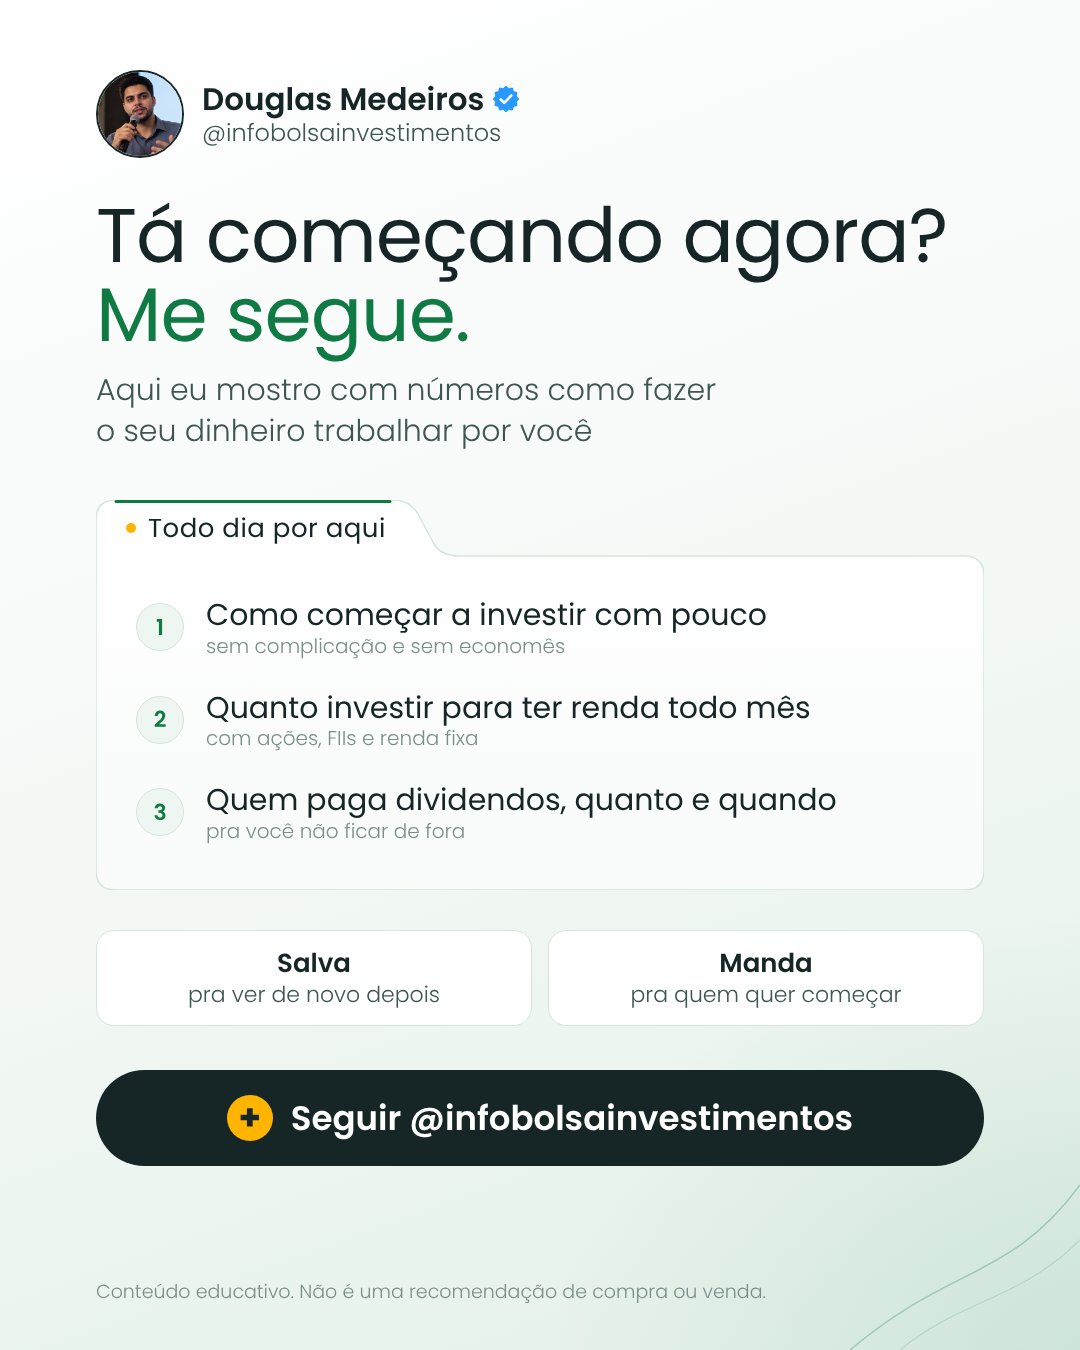
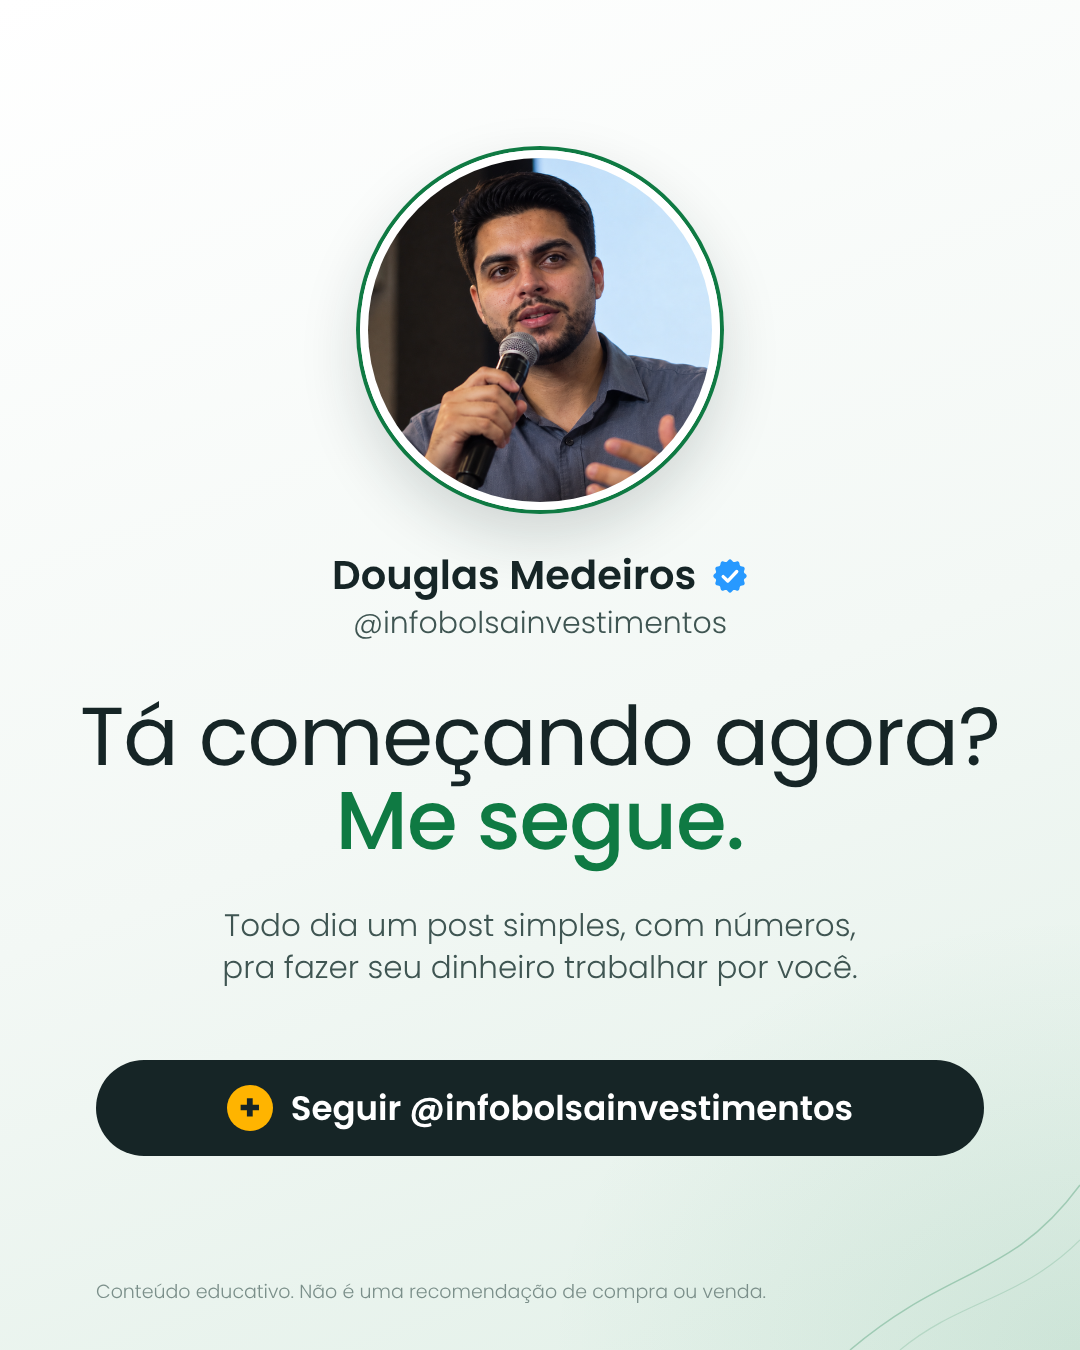
Slide de seguir mais enxuto
Claude-Session: https://claude.ai/code/session_01V4Ut9U2W4uPbxLAyJQKmJH

Changed region(s): [[0.0917, 0.0311, 0.9167, 0.6533], [0.0917, 0.7156, 0.9167, 0.8711], [0.1833, 0.6844, 0.825, 0.7467]]

diff --git a/kit/gen_inst.py b/kit/gen_inst.py
@@ -299,26 +299,34 @@ def build_prefere(c, tema):
 
 SEGUE_PADRAO = {
     "titulo": "Tá começando agora?<br><span>Me segue.</span>",
-    "sub": "Aqui eu mostro com números como fazer<br>o seu dinheiro trabalhar por você",
-    "aba": "Todo dia por aqui",
-    "itens": [["Como começar a investir com pouco", "sem complicação e sem economês"],
-              ["Quanto investir para ter renda todo mês", "com ações, FIIs e renda fixa"],
-              ["Quem paga dividendos, quanto e quando", "pra você não ficar de fora"]],
+    "sub": "Todo dia um post simples, com números,<br>pra fazer seu dinheiro trabalhar por você.",
     "rodape": ["Conteúdo educativo. Não é uma recomendação de compra ou venda."],
 }
 
 
 def build_segue(c, tema):
-    """Último slide do carrossel, genérico (não anuncia tema). cfg opcional; sem cfg usa SEGUE_PADRAO."""
+    """Último slide do carrossel, enxuto: foto grande, chamada para seguir e botão. Não anuncia tema."""
     c = {**SEGUE_PADRAO, **(c or {})}
-    its = "".join(f'<div class="it" style="margin-bottom:30px"><div class="n">{i + 1}</div><div>{a}<small>{b}</small></div></div>'
-                  for i, (a, b) in enumerate(c["itens"]))
-    miolo = f'<div style="position:absolute;top:96px;left:40px;right:40px">{its}</div>'
-    h = 96 + len(c["itens"]) * 100 - 6
-    corpo = (pasta(500, h, c["aba"], miolo, tema, tw=330)
-             + f'<div class="acoes" style="top:{500 + h + 40}px"><div><b>Salva</b>pra ver de novo depois</div><div><b>Manda</b>pra quem quer começar</div></div>'
-             + f'<div class="btn" style="top:{500 + h + 40 + 140}px"><span class="m">+</span>Seguir @infobolsainvestimentos</div>')
-    return pagina(tema, c["titulo"], c["sub"], corpo, c["rodape"], tsize=c.get("tsize", 76))
+    T = TEMAS[tema]
+    vars_ = ";".join(f"--{k}:{v}" for k, v in T.items())
+    css = """.sg{position:absolute;left:0;right:0;text-align:center}
+.sg-ft{top:150px;left:50%;width:360px;height:360px;margin-left:-180px;border-radius:50%;overflow:hidden;border:8px solid #fff;box-shadow:0 0 0 4px var(--acc),0 24px 60px rgba(22,37,38,.18)}
+.sg-ft img{width:100%;height:100%;object-fit:cover}
+.sg-nm{top:545px;font-size:40px;font-weight:600;color:var(--fg)}
+.sg-nm svg,.sg-nm img{width:36px;height:36px;vertical-align:-5px;margin-left:6px}
+.sg-ar{top:600px;font-size:30px;font-weight:300;color:var(--sub)}
+.sg-t{top:695px;font-size:82px;line-height:1.02;font-weight:400;color:var(--fg);letter-spacing:-1px}
+.sg-t span{color:var(--acc);font-weight:500}
+.sg-s{top:905px;font-size:31px;line-height:1.35;font-weight:300;color:var(--sub)}"""
+    return f"""<!doctype html><html lang="pt-BR"><head><meta charset="utf-8"><style>{CSS.replace('FS/', FS)}{css}</style></head>
+<body style="{vars_}"><div class="luz"></div>{curva(tema)}
+<div class="sg sg-ft"><img src="assets/foto.png" alt=""></div>
+<div class="sg sg-nm">Douglas Medeiros {SELO}</div>
+<div class="sg sg-ar">@infobolsainvestimentos</div>
+<div class="sg sg-t">{c["titulo"]}</div>
+<div class="sg sg-s">{c["sub"]}</div>
+<div class="btn" style="top:1060px"><span class="m">+</span>Seguir @infobolsainvestimentos</div>
+<div class="rod">{"<br>".join(c["rodape"])}</div>{SCRIPT}</body></html>"""
 
 
 if __name__ == "__main__":
